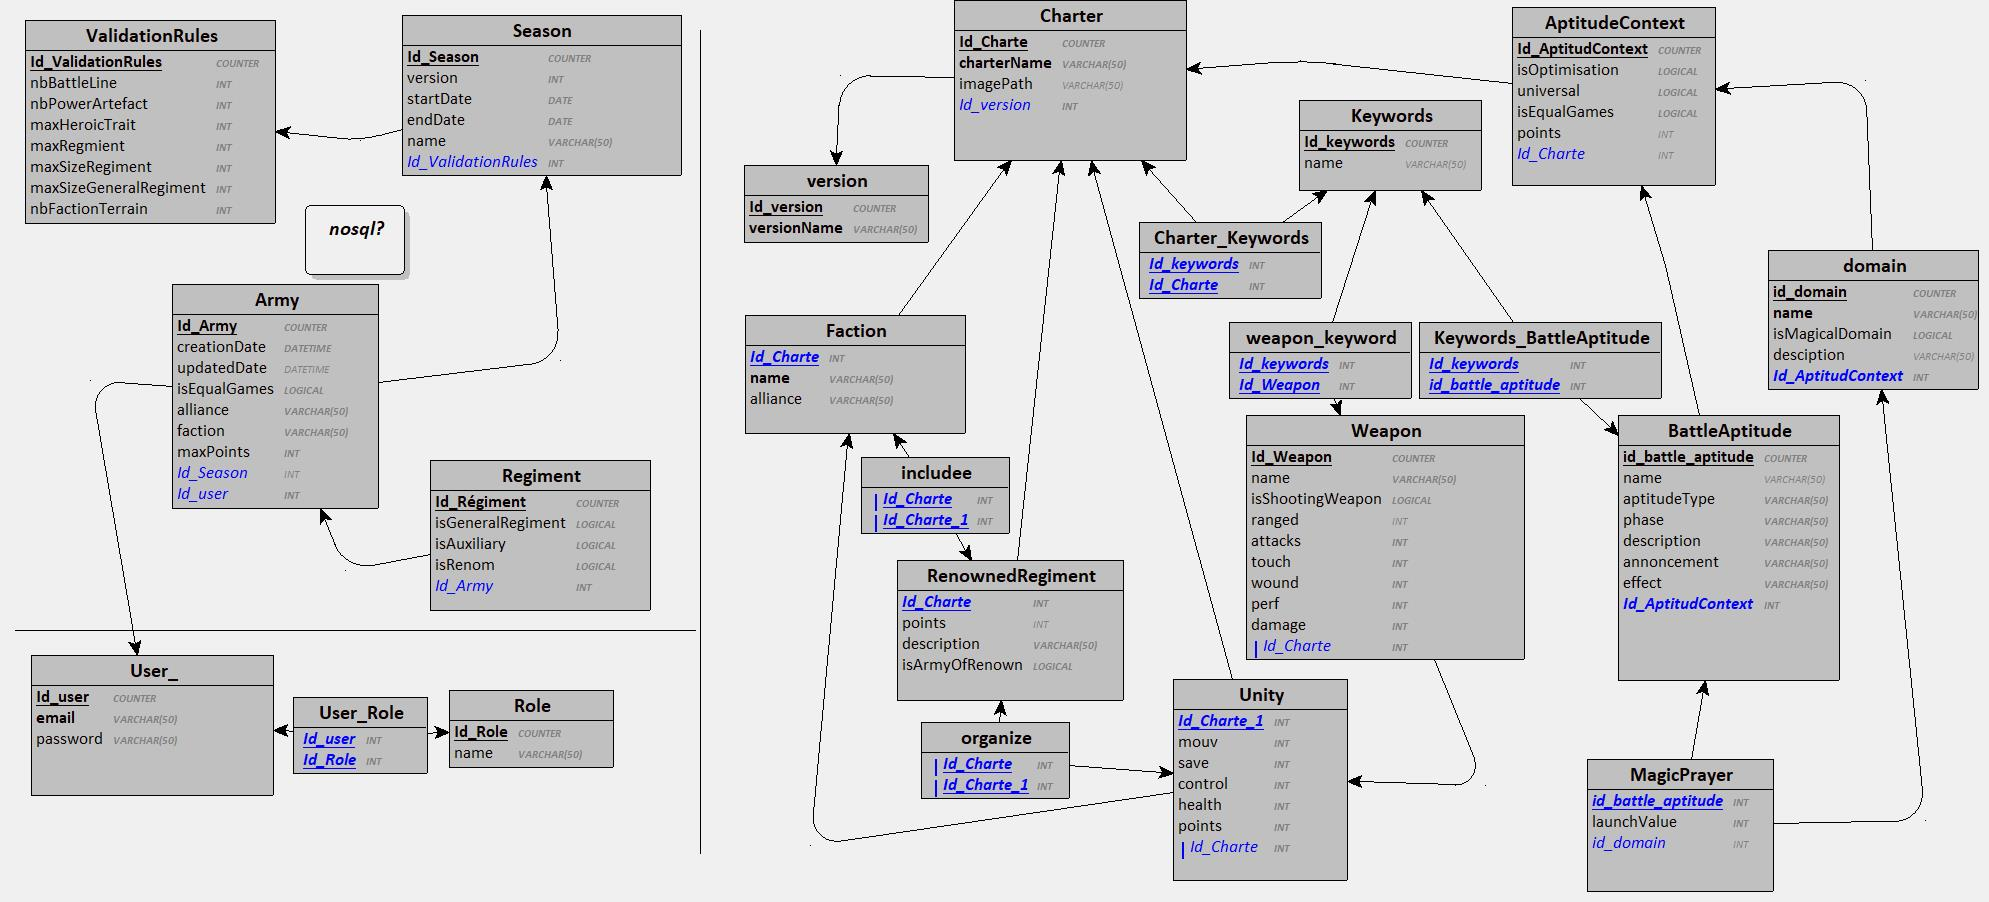
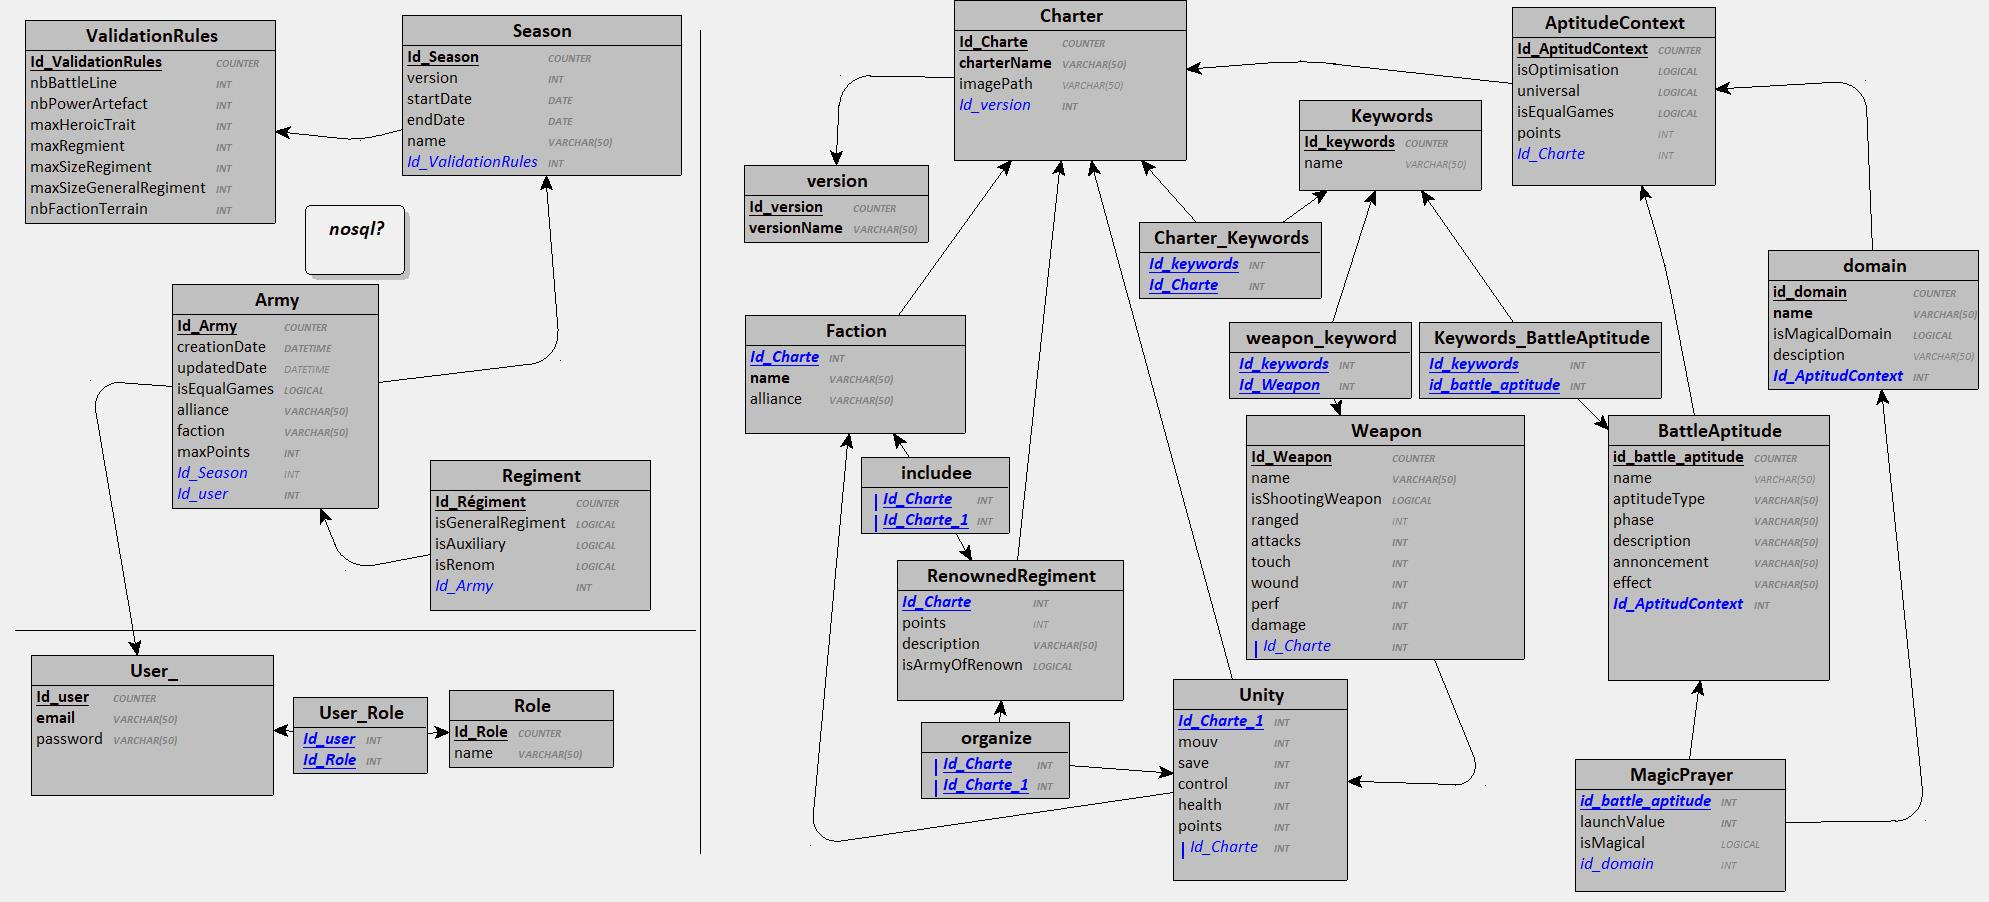
addMagicPrayer avec factory et dto + correction findByNameIgnoreCase pour keyword

Changed region(s): [[0.7793, 0.4656, 0.9351, 0.745], [0.7793, 0.8381, 0.904, 0.9933]]

diff --git a/backend/BattlescrollService/src/main/java/com/florian/aos/battlescrollservice/service/battleAptitude/BattleAptitudeService.java b/backend/BattlescrollService/src/main/java/com/florian/aos/battlescrollservice/service/battleAptitude/BattleAptitudeService.java
@@ -1,16 +1,17 @@
 package com.florian.aos.battlescrollservice.service.battleAptitude;
 
-import com.florian.aos.battlescrollservice.dto.battleAptitude.AptitudeContextDtoPost;
-import com.florian.aos.battlescrollservice.dto.battleAptitude.BattleAptitudeDtoGet;
-import com.florian.aos.battlescrollservice.dto.battleAptitude.BattleAptitudeDtoPost;
+import com.florian.aos.battlescrollservice.dto.battleAptitude.*;
 import com.florian.aos.battlescrollservice.entity.battleAptitude.AptitudeContext;
 import com.florian.aos.battlescrollservice.entity.battleAptitude.BattleAptitude;
+import com.florian.aos.battlescrollservice.entity.battleAptitude.Domain;
+import com.florian.aos.battlescrollservice.entity.battleAptitude.MagicPrayer;
 import com.florian.aos.battlescrollservice.entity.charter.Charter;
 import com.florian.aos.battlescrollservice.exception.NotFoundException;
 import com.florian.aos.battlescrollservice.factory.BattleAptitudeFactory;
 import com.florian.aos.battlescrollservice.repository.KeywordRepository;
 import com.florian.aos.battlescrollservice.repository.battleAptitude.AptitudeContextRepository;
 import com.florian.aos.battlescrollservice.repository.battleAptitude.BattleAptitudeRepository;
+import com.florian.aos.battlescrollservice.repository.battleAptitude.DomainRepository;
 import com.florian.aos.battlescrollservice.repository.charter.CharterRepository;
 import com.florian.aos.battlescrollservice.utils.enums.AptitudeType;
 import org.springframework.stereotype.Service;
@@ -27,19 +28,24 @@ public class BattleAptitudeService {
     private final BattleAptitudeFactory battleAptitudeFactory;
     private final KeywordRepository keywordRepository;
     private final CharterRepository charterRepository;
+    private final DomainRepository domainRepository;
+
 
     public BattleAptitudeService(AptitudeContextRepository aptitudeContextRepository,
                                  BattleAptitudeRepository battleAptitudeRepository,
                                  BattleAptitudeFactory battleAptitudeFactory,
                                  KeywordRepository keywordRepository,
-                                 CharterRepository charterRepository
+                                 CharterRepository charterRepository, DomainRepository domainRepository
     ) {
         this.aptitudeContextRepository = aptitudeContextRepository;
         this.battleAptitudeRepository = battleAptitudeRepository;
         this.battleAptitudeFactory = battleAptitudeFactory;
         this.keywordRepository = keywordRepository;
         this.charterRepository = charterRepository;
+        this.domainRepository = domainRepository;
     }
+
+    //====================================== BattleAptitude ======================================
 
     public BattleAptitudeDtoGet getBattleAptitude(Long id){
         BattleAptitude battleAptitude = battleAptitudeRepository.findById(id)
@@ -73,7 +79,7 @@ public class BattleAptitudeService {
 
         if (dtoPost.getKeywords() != null && !dtoPost.getKeywords().isEmpty()){
             battleAptitude.setKeywords(dtoPost.getKeywords().stream()
-                    .map((keyword) -> keywordRepository.findByName(keyword.toLowerCase())
+                    .map((keyword) -> keywordRepository.findByNameIgnoreCase(keyword)
                     .orElseThrow(() -> new NotFoundException("Keyword")))
                     .toList()
             );
@@ -132,7 +138,7 @@ public class BattleAptitudeService {
         if (baDtoPost.getKeywords() != null){
             battleAptitude.setKeywords(
                     baDtoPost.getKeywords().stream()
-                            .map(keyword -> keywordRepository.findByName(keyword.toLowerCase())
+                            .map(keyword -> keywordRepository.findByNameIgnoreCase(keyword)
                                     .orElseThrow(() -> new NotFoundException("keyword")))
                             .toList()
             );
@@ -166,5 +172,45 @@ public class BattleAptitudeService {
                 .orElseThrow(() -> new NotFoundException("battle aptitude"));
         battleAptitudeRepository.delete(battleAptitude);
         return true;
+    }
+
+    //====================================== MagicPrayer ======================================
+    @Transactional
+    public MagicPrayerDtoGet addMagicPrayer(MagicPrayerDtoPost dtoPost) {
+        if (dtoPost.getAptitudeContext() == null){
+            throw new IllegalArgumentException("MagicPrayer must have aptitudeContext");
+        }
+
+        BattleAptitudeFactory.BattleAptitudeBundle bundle = battleAptitudeFactory.createMagicPrayer(dtoPost);
+        MagicPrayer magicPrayer = (MagicPrayer) bundle.battleAptitude();
+        AptitudeContext aptitudeContext = bundle.aptitudeContext();
+
+        if (dtoPost.getKeywords() != null && !dtoPost.getKeywords().isEmpty()){
+            magicPrayer.setKeywords(dtoPost.getKeywords().stream()
+                    .map((keyword) -> keywordRepository.findByNameIgnoreCase(keyword.toLowerCase())
+                            .orElseThrow(() -> new NotFoundException("Keyword " + keyword)))
+                    .toList()
+            );
+        }
+        if (!dtoPost.getAptitudeContext().getIsUniversal()){
+            if (dtoPost.getAptitudeContext().getCharterId() != null && dtoPost.getAptitudeContext().getCharterId() > 0){
+                Charter charter = charterRepository.findById(dtoPost.getAptitudeContext().getCharterId())
+                        .orElseThrow(() -> new NotFoundException("Charter"));
+                aptitudeContext.setCharter(charter);
+            }else{
+                throw new IllegalArgumentException("A non-universal MagicPrayer must be linked to a charter");
+            }
+        }
+        if (dtoPost.getDomainId() != null && dtoPost.getDomainId() > 0L){
+            Domain domain = domainRepository.findById(dtoPost.getDomainId())
+                    .orElseThrow(() -> new NotFoundException("Domain"));
+            if (domain.isMagicalDomain() != dtoPost.getIsMagical()){
+                throw new IllegalArgumentException("A spell must be attached to a magic domain and a prayer to a prayer domain (isMagical and isMagicalDomain).");
+            }
+            magicPrayer.setDomain(domain);
+        }
+        magicPrayer.setAptitudeContext(aptitudeContext);
+        battleAptitudeRepository.save(magicPrayer);
+        return new MagicPrayerDtoGet(magicPrayer);
     }
 }

diff --git a/backend/BattlescrollService/src/test/java/com/florian/aos/battlescrollservice/battleAptitude/BattleAptitudeServiceTest.java b/backend/BattlescrollService/src/test/java/com/florian/aos/battlescrollservice/battleAptitude/BattleAptitudeServiceTest.java
@@ -8,6 +8,7 @@ import com.florian.aos.battlescrollservice.factory.BattleAptitudeFactory;
 import com.florian.aos.battlescrollservice.repository.KeywordRepository;
 import com.florian.aos.battlescrollservice.repository.battleAptitude.AptitudeContextRepository;
 import com.florian.aos.battlescrollservice.repository.battleAptitude.BattleAptitudeRepository;
+import com.florian.aos.battlescrollservice.repository.battleAptitude.DomainRepository;
 import com.florian.aos.battlescrollservice.repository.charter.CharterRepository;
 import com.florian.aos.battlescrollservice.service.battleAptitude.BattleAptitudeService;
 import org.junit.jupiter.api.Assertions;
@@ -26,12 +27,13 @@ public class BattleAptitudeServiceTest {
     private final KeywordRepository keywordRepository =  Mockito.mock(KeywordRepository.class);
     private final CharterRepository charterRepository = Mockito.mock(CharterRepository.class);
     private BattleAptitudeService service ;
+    private final DomainRepository domainRepository = Mockito.mock(DomainRepository.class);
 
     @BeforeEach
     public void setUp(){
         battleAptitudeFactory = new BattleAptitudeFactory();
         service = new BattleAptitudeService(aptitudeContextRepository, battleAptitudeRepository,
-                battleAptitudeFactory, keywordRepository, charterRepository
+                battleAptitudeFactory, keywordRepository, charterRepository, domainRepository
                 );
     }
 
@@ -73,7 +75,7 @@ public class BattleAptitudeServiceTest {
                 .aptitudeType("artefact")
                 .aptitudeContext(contextDtoPost)
                 .keywords(List.of("keyword")).build();
-        Mockito.when(keywordRepository.findByName("keyword")).thenReturn(Optional.empty());
+        Mockito.when(keywordRepository.findByNameIgnoreCase("keyword")).thenReturn(Optional.empty());
 
         //act & assert
         Assertions.assertThrows(NotFoundException.class, () -> service.addBattleAptitude(baDtoPost));
@@ -96,7 +98,7 @@ public class BattleAptitudeServiceTest {
                 .aptitudeType("artefact")
                 .aptitudeContext(contextDtoPost)
                 .keywords(List.of("keyword")).build();
-        Mockito.when(keywordRepository.findByName("keyword")).thenReturn(Optional.of(Keyword.builder().build()));
+        Mockito.when(keywordRepository.findByNameIgnoreCase("keyword")).thenReturn(Optional.of(Keyword.builder().build()));
 
 
         //act & assert
@@ -121,7 +123,7 @@ public class BattleAptitudeServiceTest {
                 .aptitudeType("artefact")
                 .aptitudeContext(contextDtoPost)
                 .keywords(List.of("keyword")).build();
-        Mockito.when(keywordRepository.findByName("keyword")).thenReturn(Optional.of(Keyword.builder().build()));
+        Mockito.when(keywordRepository.findByNameIgnoreCase("keyword")).thenReturn(Optional.of(Keyword.builder().build()));
         Mockito.when(charterRepository.findById(1L)).thenReturn(Optional.empty());
 
         //act & assert

diff --git a/backend/BattlescrollService/src/main/java/com/florian/aos/battlescrollservice/factory/BattleAptitudeFactory.java b/backend/BattlescrollService/src/main/java/com/florian/aos/battlescrollservice/factory/BattleAptitudeFactory.java
@@ -3,9 +3,11 @@ package com.florian.aos.battlescrollservice.factory;
 import com.florian.aos.battlescrollservice.dto.battleAptitude.AptitudeContextDtoPost;
 import com.florian.aos.battlescrollservice.dto.battleAptitude.BattleAptitudeDtoPost;
 import com.florian.aos.battlescrollservice.dto.battleAptitude.DomainDtoPost;
+import com.florian.aos.battlescrollservice.dto.battleAptitude.MagicPrayerDtoPost;
 import com.florian.aos.battlescrollservice.entity.battleAptitude.AptitudeContext;
 import com.florian.aos.battlescrollservice.entity.battleAptitude.BattleAptitude;
 import com.florian.aos.battlescrollservice.entity.battleAptitude.Domain;
+import com.florian.aos.battlescrollservice.entity.battleAptitude.MagicPrayer;
 import com.florian.aos.battlescrollservice.utils.enums.AptitudeType;
 import org.springframework.stereotype.Component;
 
@@ -37,6 +39,32 @@ public class BattleAptitudeFactory {
         AptitudeContext aptitudeContext = createAptitudeContext(baDto.getAptitudeContext());
 
         return new BattleAptitudeBundle(battleAptitude, aptitudeContext);
+    }
+
+    public BattleAptitudeBundle createMagicPrayer(MagicPrayerDtoPost dtoPost){
+        if (dtoPost.getName() == null || dtoPost.getName().isBlank()){
+            throw new IllegalArgumentException("Name cannot be null or empty");
+        }
+        if (dtoPost.getIsMagical() == null){
+            throw new IllegalArgumentException("isMagical cannot be null or empty");
+        }
+
+        MagicPrayer magicPrayer = MagicPrayer.builder()
+                .name(dtoPost.getName())
+                .phase(dtoPost.getPhase())
+                .description(dtoPost.getDescription())
+                .announcement(dtoPost.getAnnouncement())
+                .effect(dtoPost.getEffect())
+                .launchValue(dtoPost.getLaunchValue())
+                .isMagical(dtoPost.getIsMagical())
+                .build();
+        try {
+            magicPrayer.setAptitudeType(AptitudeType.valueOf(dtoPost.getAptitudeType().toUpperCase()));
+        }catch (IllegalArgumentException e){
+            throw new IllegalArgumentException("Illegal aptitude type " + dtoPost.getAptitudeType());
+        }
+        AptitudeContext aptitudeContext = createAptitudeContext(dtoPost.getAptitudeContext());
+        return new BattleAptitudeBundle(magicPrayer, aptitudeContext);
     }
 
     private AptitudeContext createAptitudeContext(AptitudeContextDtoPost dto){

diff --git a/backend/BattlescrollService/src/main/java/com/florian/aos/battlescrollservice/controller/MagicPrayerController.java b/backend/BattlescrollService/src/main/java/com/florian/aos/battlescrollservice/controller/MagicPrayerController.java
@@ -1,0 +1,26 @@
+package com.florian.aos.battlescrollservice.controller;
+
+import com.florian.aos.battlescrollservice.dto.battleAptitude.MagicPrayerDtoGet;
+import com.florian.aos.battlescrollservice.dto.battleAptitude.MagicPrayerDtoPost;
+import com.florian.aos.battlescrollservice.service.battleAptitude.BattleAptitudeService;
+import org.springframework.http.ResponseEntity;
+import org.springframework.web.bind.annotation.PostMapping;
+import org.springframework.web.bind.annotation.RequestBody;
+import org.springframework.web.bind.annotation.RequestMapping;
+import org.springframework.web.bind.annotation.RestController;
+
+@RestController
+@RequestMapping("/api/spells-&-prayers")
+public class MagicPrayerController {
+
+    private final BattleAptitudeService battleAptitudeService;
+
+    public MagicPrayerController(BattleAptitudeService battleAptitudeService) {
+        this.battleAptitudeService = battleAptitudeService;
+    }
+
+    @PostMapping("/add")
+    public ResponseEntity<MagicPrayerDtoGet> addMagicPrayer(@RequestBody MagicPrayerDtoPost dtoPost){
+        return ResponseEntity.status(201).body(battleAptitudeService.addMagicPrayer(dtoPost));
+    }
+}

diff --git a/backend/BattlescrollService/src/main/java/com/florian/aos/battlescrollservice/dto/battleAptitude/DomainDtoGetMagic.java b/backend/BattlescrollService/src/main/java/com/florian/aos/battlescrollservice/dto/battleAptitude/DomainDtoGetMagic.java
@@ -1,0 +1,25 @@
+package com.florian.aos.battlescrollservice.dto.battleAptitude;
+
+import com.florian.aos.battlescrollservice.entity.battleAptitude.Domain;
+import lombok.Getter;
+import lombok.Setter;
+
+@Getter
+@Setter
+public class DomainDtoGetMagic {
+    private Long id;
+    private String name;
+    private String description;
+    private Boolean isMagicalDomain;
+    private AptitudeContextDtoGet aptitudeContextDtoGet;
+
+    public DomainDtoGetMagic(Domain domain) {
+        this.id = domain.getId();
+        this.name = domain.getName();
+        this.isMagicalDomain = domain.isMagicalDomain();
+        if (domain.getDescription() != null){
+            this.description = domain.getDescription();
+        }
+        this.aptitudeContextDtoGet = new AptitudeContextDtoGet(domain.getAptitudeContext());
+    }
+}

diff --git a/backend/BattlescrollService/src/main/java/com/florian/aos/battlescrollservice/dto/battleAptitude/MagicPrayerDtoGet.java b/backend/BattlescrollService/src/main/java/com/florian/aos/battlescrollservice/dto/battleAptitude/MagicPrayerDtoGet.java
@@ -6,13 +6,18 @@ import lombok.Setter;
 
 @Getter
 @Setter
-public class MagicPrayerDtoGetDom extends BattleAptitudeDtoGet{
-    private Integer launchValue;
+public class MagicPrayerDtoGet extends BattleAptitudeDtoGet {
+    private int launchValue;
     private Boolean isMagical;
 
-    public MagicPrayerDtoGetDom(MagicPrayer magicPrayer) {
+    private DomainDtoGetMagic domain;
+
+    public MagicPrayerDtoGet(MagicPrayer magicPrayer) {
         super(magicPrayer);
         this.launchValue = magicPrayer.getLaunchValue();
         this.isMagical = magicPrayer.isMagical();
+        if (magicPrayer.getDomain() != null){
+            this.domain = new DomainDtoGetMagic(magicPrayer.getDomain());
+        }
     }
 }

diff --git a/backend/BattlescrollService/src/main/java/com/florian/aos/battlescrollservice/entity/battleAptitude/MagicPrayer.java b/backend/BattlescrollService/src/main/java/com/florian/aos/battlescrollservice/entity/battleAptitude/MagicPrayer.java
@@ -1,9 +1,6 @@
 package com.florian.aos.battlescrollservice.entity.battleAptitude;
 
-import jakarta.persistence.Column;
-import jakarta.persistence.Entity;
-import jakarta.persistence.JoinColumn;
-import jakarta.persistence.ManyToOne;
+import jakarta.persistence.*;
 import lombok.AccessLevel;
 import lombok.AllArgsConstructor;
 import lombok.Data;
@@ -19,8 +16,9 @@ public class MagicPrayer extends BattleAptitude {
 
     @Column(name = "launch_value")
     private int launchValue;
+    private boolean isMagical;
 
-    @ManyToOne
+    @ManyToOne(cascade = CascadeType.MERGE)
     @JoinColumn(name = "domain_id")
     private Domain domain;
 }

diff --git a/backend/BattlescrollService/src/main/java/com/florian/aos/battlescrollservice/dto/battleAptitude/MagicPrayerDtoPost.java b/backend/BattlescrollService/src/main/java/com/florian/aos/battlescrollservice/dto/battleAptitude/MagicPrayerDtoPost.java
@@ -1,0 +1,25 @@
+package com.florian.aos.battlescrollservice.dto.battleAptitude;
+
+import lombok.Builder;
+import lombok.Data;
+
+import java.util.List;
+
+@Data
+@Builder
+public class MagicPrayerDtoPost {
+
+    private String name;
+    private String aptitudeType;
+    private String phase;
+    private String description;
+    private String announcement;
+    private String effect;
+    private int launchValue;
+    private Boolean isMagical;
+
+    private List<String> keywords;
+
+    private AptitudeContextDtoPost aptitudeContext;
+    private Long domainId;
+}

diff --git a/backend/BattlescrollService/src/main/java/com/florian/aos/battlescrollservice/entity/battleAptitude/BattleAptitude.java b/backend/BattlescrollService/src/main/java/com/florian/aos/battlescrollservice/entity/battleAptitude/BattleAptitude.java
@@ -30,11 +30,11 @@ public class BattleAptitude {
     private AptitudeType aptitudeType;
     @Column(nullable = false)
     private String phase;
-    @Column(nullable = false)
+    @Column(nullable = false, length = 1000)
     private String description;
-    @Column(nullable = false)
+    @Column(nullable = false , length = 1000)
     private String announcement;
-    @Column(nullable = false)
+    @Column(nullable = false, length = 1000)
     private String effect;
 
     @ManyToMany(cascade = CascadeType.DETACH)

diff --git a/backend/BattlescrollService/src/main/java/com/florian/aos/battlescrollservice/repository/KeywordRepository.java b/backend/BattlescrollService/src/main/java/com/florian/aos/battlescrollservice/repository/KeywordRepository.java
@@ -8,5 +8,5 @@ import java.util.Optional;
 
 @Repository
 public interface KeywordRepository extends CrudRepository<Keyword, Long> {
-    Optional<Keyword> findByName(String name);
+    Optional<Keyword> findByNameIgnoreCase(String name);
 }

diff --git a/backend/BattlescrollService/src/main/java/com/florian/aos/battlescrollservice/utils/enums/AptitudeType.java b/backend/BattlescrollService/src/main/java/com/florian/aos/battlescrollservice/utils/enums/AptitudeType.java
@@ -5,5 +5,7 @@ public enum AptitudeType {
     BATTLELINE,
     BATTLEFORMATION,
     HEROICTRAIT,
-    SKILL
+    SKILL,
+    SPELL,
+    PRAYER
 }
